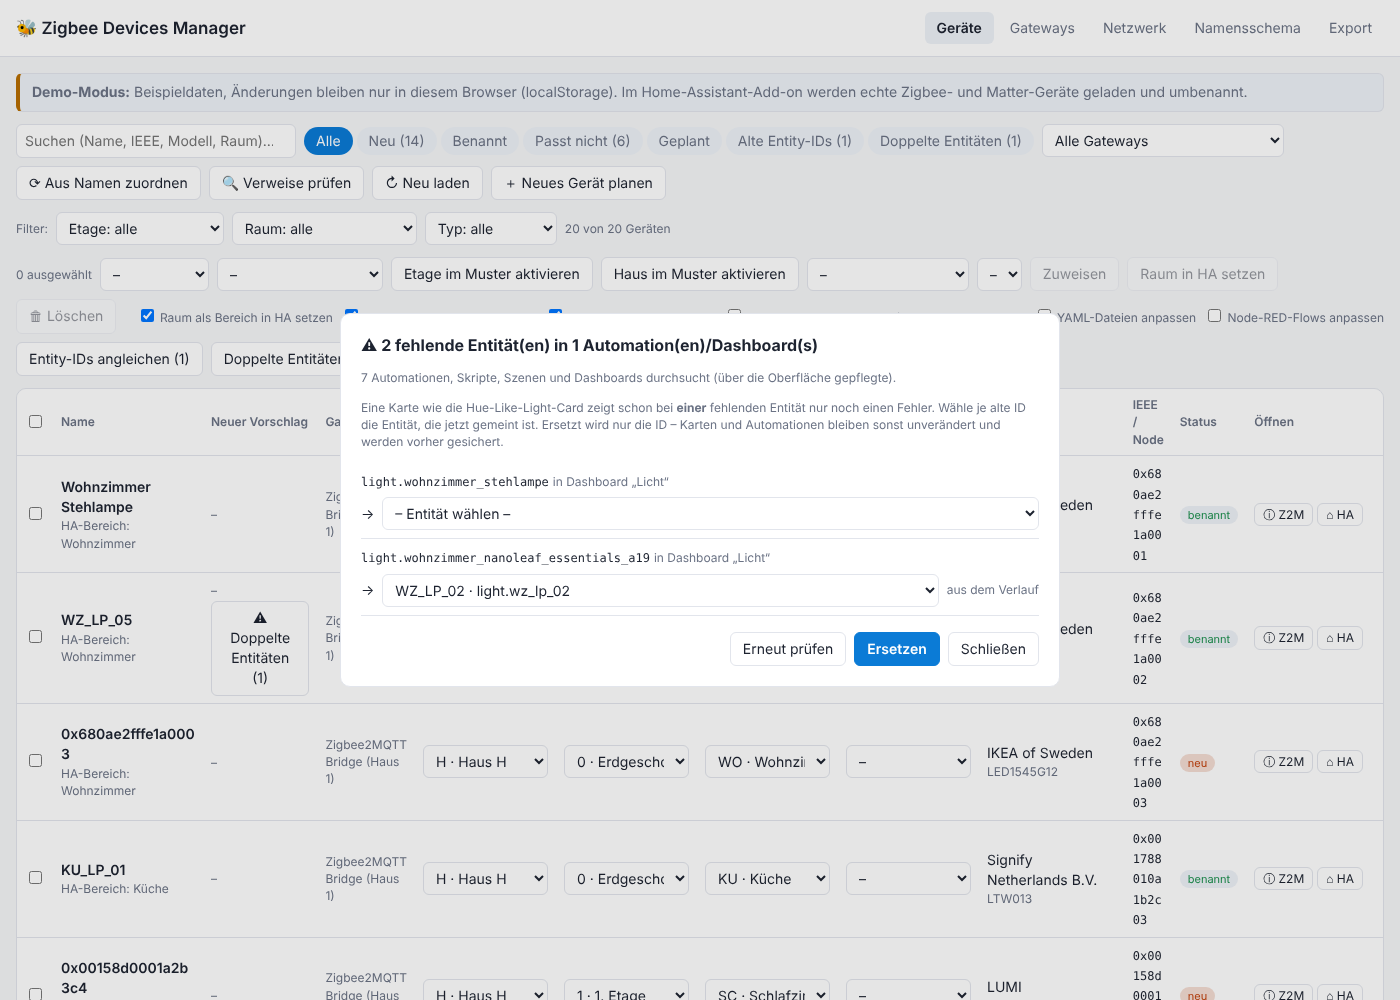
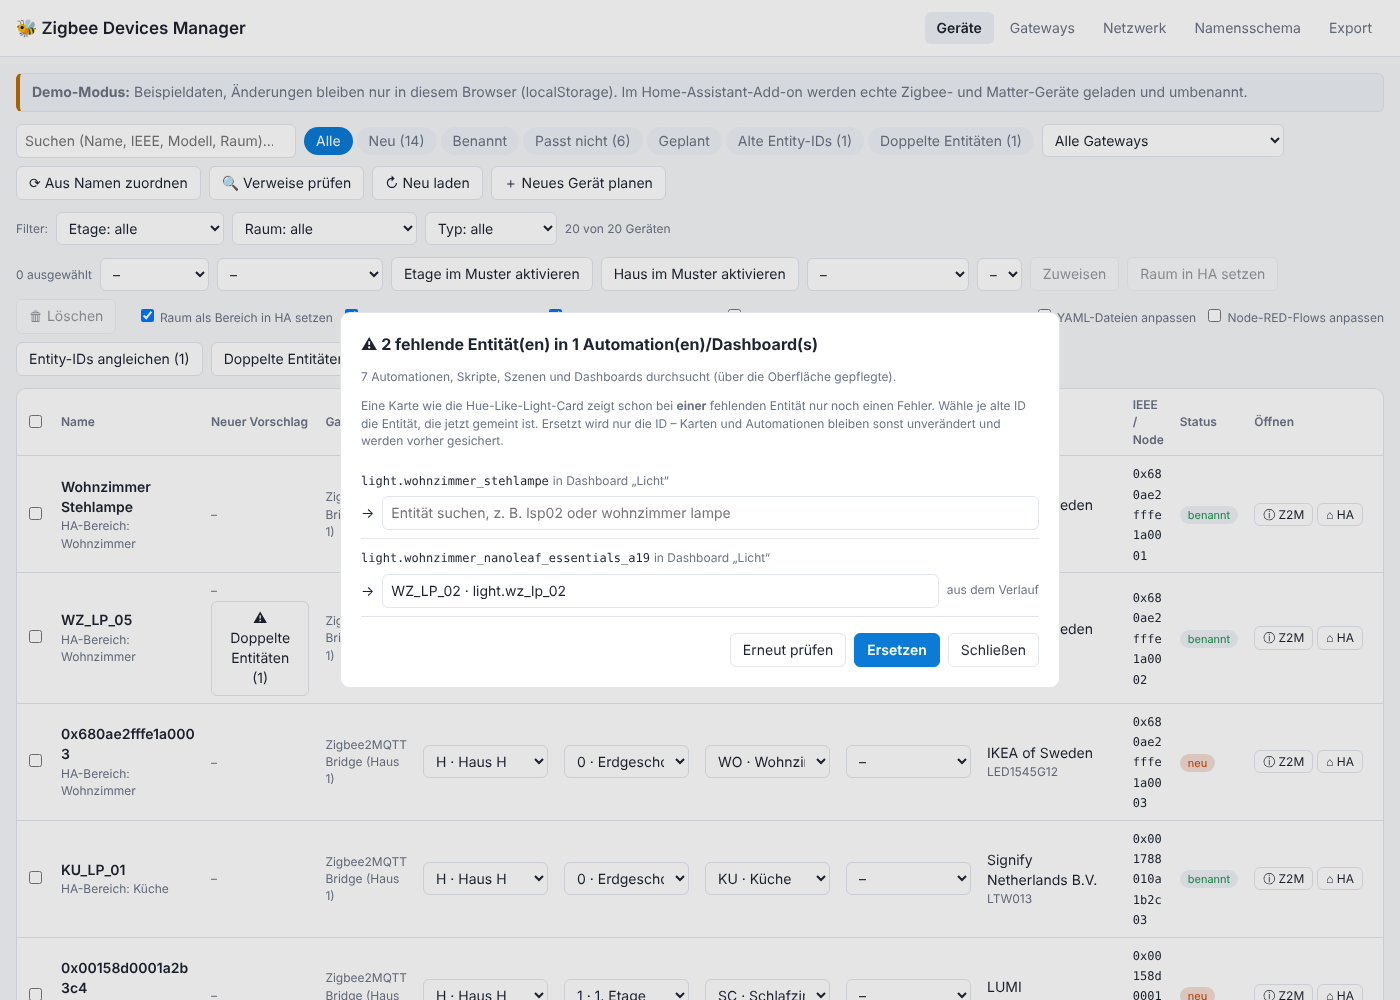
„Verweise prüfen“: Suchfeld statt langer Auswahlliste
Je alter ID ein Suchfeld mit Trefferliste (max. 40, sonst Hinweis „genauer
suchen“): alle Wörter müssen in Name oder Entity-ID vorkommen, Groß/klein,
-/_ und Umlaute egal (lsp02, wzel lsp, buero). Antippen oder Enter übernimmt,
Escape schließt nur die Liste. Vorschlag aus dem Verlauf bleibt vorbelegt.

Claude-Session: https://claude.ai/code/session_01BRmvK2JwGzbRa7vCyPwVU7

Changed region(s): [[0.2457, 0.341, 0.7371, 0.527], [0.2764, 0.589, 0.6757, 0.682], [0.6757, 0.62, 0.7371, 0.682]]

diff --git a/demo/zigbee-devices-manager-demo.html b/demo/zigbee-devices-manager-demo.html
@@ -20,6 +20,10 @@ main{padding:16px;width:100%}
 input,select,button{font:inherit;color:var(--fg)}
 input,select{background:var(--input);border:1px solid var(--line);border-radius:6px;padding:6px 8px;min-width:0}
 input:focus,select:focus{outline:2px solid var(--accent);outline-offset:-1px}
+.pick{flex:1;min-width:0}.pick input{width:100%}
+.pickres{margin-top:4px;border:1px solid var(--line);border-radius:6px;max-height:240px;overflow:auto;background:var(--card)}
+.pickres button{display:block;width:100%;text-align:left;background:none;border:0;border-bottom:1px solid var(--line);padding:6px 8px;cursor:pointer}
+.pickres button:hover,.pickres button.on{background:var(--chip)}.pickres .sub{display:block;padding:6px 8px}
 select.facet.on{border-color:var(--accent);background:color-mix(in srgb,var(--accent) 10%,var(--input))}
 button.btn{background:var(--card);border:1px solid var(--line);border-radius:6px;padding:6px 12px;cursor:pointer}
 button.btn:hover{border-color:var(--accent)}
@@ -552,7 +556,8 @@ const api = {
       const missing = ["light.wohnzimmer_stehlampe", "light.wohnzimmer_nanoleaf_essentials_a19"].filter(m => !fixed.includes(m));
       return {items: missing.length ? [{kind: "dashboard", id: "licht", title: "Licht", entities: missing}] : [], missing, scanned: 7, unreadable: 0,
         suggestions: {"light.wohnzimmer_nanoleaf_essentials_a19": "light.wz_lp_02"},
-        choices: {light: [["light.wz_lp_02", "WZ_LP_02"], ["light.wz_lp_05", "WZ_LP_05"], ["light.ku_lp_01", "KU_LP_01"]].map(([id, name]) => ({id, name}))}};
+        choices: {light: [["light.wz_lp_02", "WZ_LP_02"], ["light.wz_lp_05", "WZ_LP_05"], ["light.ku_lp_01", "KU_LP_01"], ["light.s2_wzel_lsp01", "S2-WZEL-LSP01"],
+          ["light.s2_wzel_lsp02", "S2-WZEL-LSP02"], ["light.s2_wzel_lsp03", "S2-WZEL-LSP03"], ["light.h1_szfl_lp01", "H1-SZFL-LP01"], ["light.buero_stehlampe", "Büro Stehlampe"]].map(([id, name]) => ({id, name}))}};
     }
     const r = await fetch("api/references"); if (!r.ok) throw new Error(await r.text()); return r.json();
   },
@@ -1324,20 +1329,41 @@ async function checkReferences() {
   const draw = (r, note = "") => {
     if (!r) { dlg.innerHTML = `<h2 style="margin:0 0 8px;font-size:16px">🔍 Verweise prüfen</h2><p class="sub"><span class="spin"></span> Durchsuche Automationen, Skripte, Szenen und Dashboards …</p>`; return; }
     const where = id => r.items.filter(i => i.entities.includes(id)).map(i => `${kinds[i.kind] || i.kind} „${esc(i.title)}“`).join(", ");
-    const opts = id => `<option value="">– Entität wählen –</option>` + (r.choices[id.split(".")[0]] || []).slice().sort((a, b) => (a.name || a.id).localeCompare(b.name || b.id, "de", {numeric: true}))
-      .map(c => `<option value="${esc(c.id)}"${r.suggestions[id] === c.id ? " selected" : ""}>${esc(c.name ? c.name + " · " + c.id : c.id)}</option>`).join("");
+    const choices = id => r.choices[id.split(".")[0]] || [], label = c => c ? (c.name ? c.name + " · " + c.id : c.id) : "";
+    const chosen = Object.fromEntries(r.missing.filter(id => r.suggestions[id]).map(id => [id, r.suggestions[id]]));
     dlg.innerHTML = `<h2 style="margin:0 0 8px;font-size:16px">${r.missing.length ? `⚠ ${r.missing.length} fehlende Entität(en) in ${r.items.length} Automation(en)/Dashboard(s)` : "✅ Keine Verweise auf fehlende Entitäten"}</h2>
       ${note}
       <p class="sub">${r.scanned} Automationen, Skripte, Szenen und Dashboards durchsucht (über die Oberfläche gepflegte)${r.unreadable ? `; ${r.unreadable} sind YAML und wurden nicht geprüft` : ""}.</p>
       ${r.missing.length ? `<p class="sub">Eine Karte wie die Hue-Like-Light-Card zeigt schon bei <b>einer</b> fehlenden Entität nur noch einen Fehler. Wähle je alte ID die Entität, die jetzt gemeint ist. Ersetzt wird nur die ID – Karten und Automationen bleiben sonst unverändert und werden vorher gesichert.</p>
       <div style="max-height:50vh;overflow:auto">${r.missing.map(id => `<div style="padding:8px 0;border-bottom:1px solid var(--line)">
         <code>${esc(id)}</code> <span class="sub">in ${where(id)}</span>
-        <div class="row" style="margin:6px 0 0"><span>→</span><select data-old="${esc(id)}" style="flex:1;min-width:0">${opts(id)}</select>${r.suggestions[id] ? `<span class="sub">aus dem Verlauf</span>` : ""}</div></div>`).join("")}</div>` : ""}
+        <div class="row" style="margin:6px 0 0;align-items:flex-start"><span style="padding-top:7px">→</span><div class="pick" data-old="${esc(id)}">
+          <input type="search" autocomplete="off" spellcheck="false" placeholder="Entität suchen, z. B. lsp02 oder wohnzimmer lampe" value="${esc(label(choices(id).find(c => c.id === chosen[id])))}">
+          <div class="pickres" hidden></div></div>${r.suggestions[id] ? `<span class="sub" style="padding-top:7px">aus dem Verlauf</span>` : ""}</div></div>`).join("")}</div>` : ""}
       <div class="row" style="justify-content:flex-end;margin:16px 0 0"><button class="btn" id="again">Erneut prüfen</button>${r.missing.length ? `<button class="btn primary" id="go">Ersetzen</button>` : ""}<button class="btn" id="close">Schließen</button></div>`;
     $("#close", dlg).onclick = close;
     $("#again", dlg).onclick = () => load();
+    // Suchfeld je alter ID: alle Wörter müssen in Name oder Entity-ID vorkommen (Groß/klein, -, _, Umlaute egal)
+    const norm = t => (t || "").toLowerCase().normalize("NFD").replace(/[\u0300-\u036f]/g, "").replace(/[^a-z0-9]+/g, " ");
+    dlg.querySelectorAll(".pick").forEach(pk => {
+      const old = pk.dataset.old, inp = $("input", pk), res = $(".pickres", pk), list = choices(old);
+      const pickable = list.map(c => ({c, hay: norm(c.name + " " + c.id)})).sort((a, b) => label(a.c).localeCompare(label(b.c), "de", {numeric: true}));
+      const show = () => {
+        const cur = list.find(c => c.id === chosen[old]), q = inp.value === label(cur) ? "" : inp.value, words = norm(q).split(" ").filter(Boolean);
+        const hits = pickable.filter(x => words.every(w => x.hay.includes(w)));
+        res.innerHTML = hits.slice(0, 40).map(x => `<button type="button" data-id="${esc(x.c.id)}" class="${x.c.id === chosen[old] ? "on" : ""}">${esc(x.c.name || x.c.id)}<span class="sub" style="padding:0">${esc(x.c.id)}</span></button>`).join("")
+          + (hits.length > 40 ? `<span class="sub">… und ${hits.length - 40} weitere – genauer suchen</span>` : hits.length ? "" : `<span class="sub">Keine Entität gefunden</span>`);
+        res.hidden = false;
+      };
+      inp.onfocus = () => { inp.select(); show(); };
+      inp.oninput = () => { if (!inp.value.trim()) delete chosen[old]; show(); };
+      inp.onkeydown = e => { if (e.key === "Escape") { e.stopPropagation(); e.preventDefault(); res.hidden = true; } if (e.key === "Enter") { e.preventDefault(); $("button", res)?.click(); } };
+      inp.onblur = () => setTimeout(() => { res.hidden = true; inp.value = label(list.find(c => c.id === chosen[old])); }, 150);
+      res.onpointerdown = e => e.preventDefault(); // Fokus bleibt im Suchfeld, bis gewählt ist
+      res.onclick = e => { const b = e.target.closest("button[data-id]"); if (!b) return; chosen[old] = b.dataset.id; inp.value = label(list.find(c => c.id === b.dataset.id)); res.hidden = true; inp.blur(); };
+    });
     $("#go", dlg) && ($("#go", dlg).onclick = async () => {
-      const mapping = Object.fromEntries([...dlg.querySelectorAll("select[data-old]")].filter(x => x.value).map(x => [x.dataset.old, x.value]));
+      const mapping = Object.fromEntries(Object.entries(chosen).filter(([, v]) => v));
       if (!Object.keys(mapping).length) { toast("Keine Entität gewählt"); return; }
       $("#go", dlg).disabled = true; $("#go", dlg).textContent = "Ersetze …";
       try {

diff --git a/zigbee_devices_manager/web/index.html b/zigbee_devices_manager/web/index.html
@@ -20,6 +20,10 @@ main{padding:16px;width:100%}
 input,select,button{font:inherit;color:var(--fg)}
 input,select{background:var(--input);border:1px solid var(--line);border-radius:6px;padding:6px 8px;min-width:0}
 input:focus,select:focus{outline:2px solid var(--accent);outline-offset:-1px}
+.pick{flex:1;min-width:0}.pick input{width:100%}
+.pickres{margin-top:4px;border:1px solid var(--line);border-radius:6px;max-height:240px;overflow:auto;background:var(--card)}
+.pickres button{display:block;width:100%;text-align:left;background:none;border:0;border-bottom:1px solid var(--line);padding:6px 8px;cursor:pointer}
+.pickres button:hover,.pickres button.on{background:var(--chip)}.pickres .sub{display:block;padding:6px 8px}
 select.facet.on{border-color:var(--accent);background:color-mix(in srgb,var(--accent) 10%,var(--input))}
 button.btn{background:var(--card);border:1px solid var(--line);border-radius:6px;padding:6px 12px;cursor:pointer}
 button.btn:hover{border-color:var(--accent)}
@@ -326,7 +330,8 @@ const api = {
       const missing = ["light.wohnzimmer_stehlampe", "light.wohnzimmer_nanoleaf_essentials_a19"].filter(m => !fixed.includes(m));
       return {items: missing.length ? [{kind: "dashboard", id: "licht", title: "Licht", entities: missing}] : [], missing, scanned: 7, unreadable: 0,
         suggestions: {"light.wohnzimmer_nanoleaf_essentials_a19": "light.wz_lp_02"},
-        choices: {light: [["light.wz_lp_02", "WZ_LP_02"], ["light.wz_lp_05", "WZ_LP_05"], ["light.ku_lp_01", "KU_LP_01"]].map(([id, name]) => ({id, name}))}};
+        choices: {light: [["light.wz_lp_02", "WZ_LP_02"], ["light.wz_lp_05", "WZ_LP_05"], ["light.ku_lp_01", "KU_LP_01"], ["light.s2_wzel_lsp01", "S2-WZEL-LSP01"],
+          ["light.s2_wzel_lsp02", "S2-WZEL-LSP02"], ["light.s2_wzel_lsp03", "S2-WZEL-LSP03"], ["light.h1_szfl_lp01", "H1-SZFL-LP01"], ["light.buero_stehlampe", "Büro Stehlampe"]].map(([id, name]) => ({id, name}))}};
     }
     const r = await fetch("api/references"); if (!r.ok) throw new Error(await r.text()); return r.json();
   },
@@ -1098,20 +1103,41 @@ async function checkReferences() {
   const draw = (r, note = "") => {
     if (!r) { dlg.innerHTML = `<h2 style="margin:0 0 8px;font-size:16px">🔍 Verweise prüfen</h2><p class="sub"><span class="spin"></span> Durchsuche Automationen, Skripte, Szenen und Dashboards …</p>`; return; }
     const where = id => r.items.filter(i => i.entities.includes(id)).map(i => `${kinds[i.kind] || i.kind} „${esc(i.title)}“`).join(", ");
-    const opts = id => `<option value="">– Entität wählen –</option>` + (r.choices[id.split(".")[0]] || []).slice().sort((a, b) => (a.name || a.id).localeCompare(b.name || b.id, "de", {numeric: true}))
-      .map(c => `<option value="${esc(c.id)}"${r.suggestions[id] === c.id ? " selected" : ""}>${esc(c.name ? c.name + " · " + c.id : c.id)}</option>`).join("");
+    const choices = id => r.choices[id.split(".")[0]] || [], label = c => c ? (c.name ? c.name + " · " + c.id : c.id) : "";
+    const chosen = Object.fromEntries(r.missing.filter(id => r.suggestions[id]).map(id => [id, r.suggestions[id]]));
     dlg.innerHTML = `<h2 style="margin:0 0 8px;font-size:16px">${r.missing.length ? `⚠ ${r.missing.length} fehlende Entität(en) in ${r.items.length} Automation(en)/Dashboard(s)` : "✅ Keine Verweise auf fehlende Entitäten"}</h2>
       ${note}
       <p class="sub">${r.scanned} Automationen, Skripte, Szenen und Dashboards durchsucht (über die Oberfläche gepflegte)${r.unreadable ? `; ${r.unreadable} sind YAML und wurden nicht geprüft` : ""}.</p>
       ${r.missing.length ? `<p class="sub">Eine Karte wie die Hue-Like-Light-Card zeigt schon bei <b>einer</b> fehlenden Entität nur noch einen Fehler. Wähle je alte ID die Entität, die jetzt gemeint ist. Ersetzt wird nur die ID – Karten und Automationen bleiben sonst unverändert und werden vorher gesichert.</p>
       <div style="max-height:50vh;overflow:auto">${r.missing.map(id => `<div style="padding:8px 0;border-bottom:1px solid var(--line)">
         <code>${esc(id)}</code> <span class="sub">in ${where(id)}</span>
-        <div class="row" style="margin:6px 0 0"><span>→</span><select data-old="${esc(id)}" style="flex:1;min-width:0">${opts(id)}</select>${r.suggestions[id] ? `<span class="sub">aus dem Verlauf</span>` : ""}</div></div>`).join("")}</div>` : ""}
+        <div class="row" style="margin:6px 0 0;align-items:flex-start"><span style="padding-top:7px">→</span><div class="pick" data-old="${esc(id)}">
+          <input type="search" autocomplete="off" spellcheck="false" placeholder="Entität suchen, z. B. lsp02 oder wohnzimmer lampe" value="${esc(label(choices(id).find(c => c.id === chosen[id])))}">
+          <div class="pickres" hidden></div></div>${r.suggestions[id] ? `<span class="sub" style="padding-top:7px">aus dem Verlauf</span>` : ""}</div></div>`).join("")}</div>` : ""}
       <div class="row" style="justify-content:flex-end;margin:16px 0 0"><button class="btn" id="again">Erneut prüfen</button>${r.missing.length ? `<button class="btn primary" id="go">Ersetzen</button>` : ""}<button class="btn" id="close">Schließen</button></div>`;
     $("#close", dlg).onclick = close;
     $("#again", dlg).onclick = () => load();
+    // Suchfeld je alter ID: alle Wörter müssen in Name oder Entity-ID vorkommen (Groß/klein, -, _, Umlaute egal)
+    const norm = t => (t || "").toLowerCase().normalize("NFD").replace(/[\u0300-\u036f]/g, "").replace(/[^a-z0-9]+/g, " ");
+    dlg.querySelectorAll(".pick").forEach(pk => {
+      const old = pk.dataset.old, inp = $("input", pk), res = $(".pickres", pk), list = choices(old);
+      const pickable = list.map(c => ({c, hay: norm(c.name + " " + c.id)})).sort((a, b) => label(a.c).localeCompare(label(b.c), "de", {numeric: true}));
+      const show = () => {
+        const cur = list.find(c => c.id === chosen[old]), q = inp.value === label(cur) ? "" : inp.value, words = norm(q).split(" ").filter(Boolean);
+        const hits = pickable.filter(x => words.every(w => x.hay.includes(w)));
+        res.innerHTML = hits.slice(0, 40).map(x => `<button type="button" data-id="${esc(x.c.id)}" class="${x.c.id === chosen[old] ? "on" : ""}">${esc(x.c.name || x.c.id)}<span class="sub" style="padding:0">${esc(x.c.id)}</span></button>`).join("")
+          + (hits.length > 40 ? `<span class="sub">… und ${hits.length - 40} weitere – genauer suchen</span>` : hits.length ? "" : `<span class="sub">Keine Entität gefunden</span>`);
+        res.hidden = false;
+      };
+      inp.onfocus = () => { inp.select(); show(); };
+      inp.oninput = () => { if (!inp.value.trim()) delete chosen[old]; show(); };
+      inp.onkeydown = e => { if (e.key === "Escape") { e.stopPropagation(); e.preventDefault(); res.hidden = true; } if (e.key === "Enter") { e.preventDefault(); $("button", res)?.click(); } };
+      inp.onblur = () => setTimeout(() => { res.hidden = true; inp.value = label(list.find(c => c.id === chosen[old])); }, 150);
+      res.onpointerdown = e => e.preventDefault(); // Fokus bleibt im Suchfeld, bis gewählt ist
+      res.onclick = e => { const b = e.target.closest("button[data-id]"); if (!b) return; chosen[old] = b.dataset.id; inp.value = label(list.find(c => c.id === b.dataset.id)); res.hidden = true; inp.blur(); };
+    });
     $("#go", dlg) && ($("#go", dlg).onclick = async () => {
-      const mapping = Object.fromEntries([...dlg.querySelectorAll("select[data-old]")].filter(x => x.value).map(x => [x.dataset.old, x.value]));
+      const mapping = Object.fromEntries(Object.entries(chosen).filter(([, v]) => v));
       if (!Object.keys(mapping).length) { toast("Keine Entität gewählt"); return; }
       $("#go", dlg).disabled = true; $("#go", dlg).textContent = "Ersetze …";
       try {

diff --git a/README.md b/README.md
@@ -36,7 +36,7 @@ und nach einem festen Namensschema vergibst.
 - **Geräte restlos löschen:** Geräte anhaken → „🗑 Löschen“. Zigbee2MQTT-Geräte werden aus dem Zigbee-Netz abgemeldet und aus Z2M entfernt (`bridge/request/device/remove`), ZHA-Geräte per `zha.remove`; Matter-Geräte nimmt Home Assistant beim Löschen aus seinem Matter-Netz. Danach verschwinden Gerät und Entitäten aus HA. Die Vorschau zeigt die betroffenen Entitäten, angebundene Geräte (z. B. hinter einer Matter-Bridge) und Automationen/Dashboards, die danach ins Leere zeigen. Ausgeführt wird erst, wenn man **LÖSCHEN** eintippt. Antwortet ein Z2M-Gerät nicht (z. B. schlafender Batterie-Sensor), entfernt das Add-on es auf Wunsch erzwungen und weist darauf hin. Der ZHA-Koordinator ist geschützt; schlägt das Entfernen in der Bridge fehl, bleibt das Gerät auch in HA. Vorher wird gesichert, danach geprüft.
 - **Entity-IDs angleichen:** Home Assistant setzt den Bereich vor neue Entity-IDs (`light.wohnzimmer_s2_wzel03`). Beim Umbenennen erkennt das Add-on diesen Anfang (auch einen früheren Bereich und die ID der Haupt-Entität) und macht daraus `light.s2_wzel_lsp03`. Benannte Geräte, deren Entity-IDs noch den Namen vom Anlernen tragen (häufig bei Matter), zeigt der Filter „Alte Entity-IDs“; „⚠ Entity-IDs angleichen“ in der Zeile oder als Sammelknopf benennt nur die IDs um – Name und Bereich bleiben, Verweise in Automationen/Dashboards werden auf Wunsch mit angepasst.
 - **Doppelte Entitäten:** Gibt es die richtige Entity-ID schon (meist eine Altlast vom früheren Namen), zeigt der Filter „Doppelte Entitäten“ beide mit Zustand (aktiv/verwaist/deaktiviert) und Verwendung. Verwaiste oder deaktivierte Altlasten lassen sich entfernen, Verweise werden dabei auf die richtige ID umgestellt; aktive Entitäten bleiben immer.
-- **Verweise prüfen:** „🔍 Verweise prüfen“ in der Geräteliste findet Automationen, Skripte, Szenen und Dashboards, die auf nicht (mehr) vorhandene Entitäten zeigen, und ersetzt die alte ID durch die gewählte Entität (Vorschlag aus dem Verlauf aller Umbenennungen, `/config/zigbee_devices_manager/entity-id-verlauf.json`). Nur die ID wird ersetzt, vorher gesichert. Hilfreich z. B. für Karten wie die Hue-Like-Light-Card, die schon bei einer fehlenden Entität nur einen Fehler zeigen.
+- **Verweise prüfen:** „🔍 Verweise prüfen“ in der Geräteliste findet Automationen, Skripte, Szenen und Dashboards, die auf nicht (mehr) vorhandene Entitäten zeigen, und ersetzt die alte ID durch die gewählte Entität (mit Suchfeld nach Name/ID, Vorschlag aus dem Verlauf aller Umbenennungen, `/config/zigbee_devices_manager/entity-id-verlauf.json`). Nur die ID wird ersetzt, vorher gesichert. Hilfreich z. B. für Karten wie die Hue-Like-Light-Card, die schon bei einer fehlenden Entität nur einen Fehler zeigen.
 - **Prüfung nach dem Umbenennen:** Das Add-on liest den Stand aus Home Assistant neu ein und zeigt ✅/⚠/❌ für Gerätenamen (bei Z2M mit bis zu 15 s Wartezeit), Entity-IDs und verbliebene alte Verweise in Automationen, YAML und Node-RED. „Erneut prüfen“ liest erneut nach.
 - **Mehrere Gateways/Häuser:** Tab „Gateways“ listet jede Zigbee2MQTT-Instanz (und ZHA, Matter). Je Gateway: Bezeichnung, MQTT-Basis-Topic und Haus (gilt automatisch für dessen Geräte). In der Geräteliste Filter nach Gateway.
 - **Anlernen:** Im Tab „Gateways“ öffnet „4 Min anlernen“ das Netz (Z2M per `bridge/request/permit_join`, ZHA per `zha.permit`), „Stopp“ beendet es; Status mit Countdown.

diff --git a/README.en.md b/README.en.md
@@ -34,7 +34,7 @@ German version: [README.md](README.md)
 - **Delete devices completely:** tick devices → "🗑 Löschen". Zigbee2MQTT devices leave the Zigbee network and are removed from Z2M (`bridge/request/device/remove`), ZHA devices via `zha.remove`; Home Assistant removes Matter devices from its Matter fabric when deleting them. Then device and entities disappear from HA. The preview lists the affected entities, attached devices (e.g. behind a Matter bridge) and automations/dashboards that will point to nothing afterwards. Nothing happens until you type **LÖSCHEN**. If a Z2M device does not respond (e.g. a sleeping battery sensor), the add-on can force-remove it and tells you so. The ZHA coordinator is protected; if removal in the bridge fails, the device also stays in HA. A backup is made first, the result is checked afterwards.
 - **Align entity IDs:** Home Assistant puts the area in front of new entity IDs (`light.wohnzimmer_s2_wzel03`). When renaming, the add-on recognises that prefix (also a former area and the ID of the device's main entity) and turns it into `light.s2_wzel_lsp03`. Named devices whose entity IDs still carry the name from pairing (common with Matter) show up under the "Alte Entity-IDs" filter; "⚠ Entity-IDs angleichen" in the row or as a bulk button renames only the IDs – name and area stay, references in automations/dashboards are updated if you choose.
 - **Duplicate entities:** if the correct entity ID is already taken (usually a leftover from a former name), the "Doppelte Entitäten" filter shows both with their state (active/orphaned/disabled) and usage. Orphaned or disabled leftovers can be removed, references are switched to the correct ID; active entities are never removed.
-- **Check references:** "🔍 Verweise prüfen" in the device list finds automations, scripts, scenes and dashboards that point to entities that no longer exist, and replaces the old ID with the entity you pick (suggested from the log of all renames, `/config/zigbee_devices_manager/entity-id-verlauf.json`). Only the ID is replaced, a backup is made first. Useful e.g. for cards like the Hue-like light card, which show only an error as soon as one entity is missing.
+- **Check references:** "🔍 Verweise prüfen" in the device list finds automations, scripts, scenes and dashboards that point to entities that no longer exist, and replaces the old ID with the entity you pick (search field by name/ID, suggested from the log of all renames, `/config/zigbee_devices_manager/entity-id-verlauf.json`). Only the ID is replaced, a backup is made first. Useful e.g. for cards like the Hue-like light card, which show only an error as soon as one entity is missing.
 - **Verification after renaming:** the add-on re-reads Home Assistant and shows ✅/⚠/❌ for device names (up to 15 s wait for Z2M), entity IDs and leftover old references in automations, YAML and Node-RED. "Re-check" reads again.
 - **Multiple gateways/houses:** the "Gateways" tab lists every Zigbee2MQTT instance (and ZHA, Matter). Per gateway: label, MQTT base topic and house (applied to its devices automatically). Gateway filter in the device list.
 - **Pairing:** "4 Min anlernen" in the "Gateways" tab opens the network (Z2M via `bridge/request/permit_join`, ZHA via `zha.permit`), "Stopp" ends it; status with countdown.

diff --git a/zigbee_devices_manager/CHANGELOG.md b/zigbee_devices_manager/CHANGELOG.md
@@ -6,6 +6,7 @@
 
 - **„Alte Entity-IDs“ verschwinden jetzt auch:** Gab es die richtige ID schon, blieb ein Gerät dauerhaft unter „Alte Entity-IDs“ stehen – „Angleichen“ zeigte nur „keine Änderung, übersprungen (ID existiert bereits)“, auch nach dem Neu-Laden. Solche Geräte haben eine Entität **doppelt** (meist eine Altlast vom früheren Namen, z. B. `sensor.01_s2_lichtschalter_sw_wohnzimmer_last_seen_2` neben `sensor.s2_wzel_tas01_last_seen`). Sie zählen jetzt nicht mehr als „Alte Entity-IDs“.
 - **Neu: „Doppelte Entitäten“** – Filter, Knopf in der Zeile und Sammelknopf. Der Dialog zeigt beide Entitäten mit Zustand (aktiv, verwaist = wird von der Integration nicht mehr geliefert, deaktiviert) und wo sie verwendet werden. Verwaiste oder deaktivierte Altlasten entfernt das Add-on auf Wunsch; Automationen und Dashboards mit der alten ID werden dabei auf die richtige umgestellt (vorher gesichert). Ist die Entität mit der richtigen ID die verwaiste, wird sie entfernt und die aktive bekommt ihre ID. Aktive Entitäten werden nie entfernt – liefern beide Werte, sagt der Dialog, was zu prüfen ist.
+- **„Verweise prüfen“ mit Suchfeld:** Statt einer langen Auswahlliste gibt es je alter ID ein Suchfeld. Tippen filtert die Entitäten nach Name und Entity-ID – mehrere Wörter in beliebiger Reihenfolge, Groß/klein, `-`/`_` und Umlaute egal (z. B. `lsp02`, `wzel lsp`, `buero`). Antippen oder Enter übernimmt den ersten Treffer.
 
 ## 0.13.0
 
